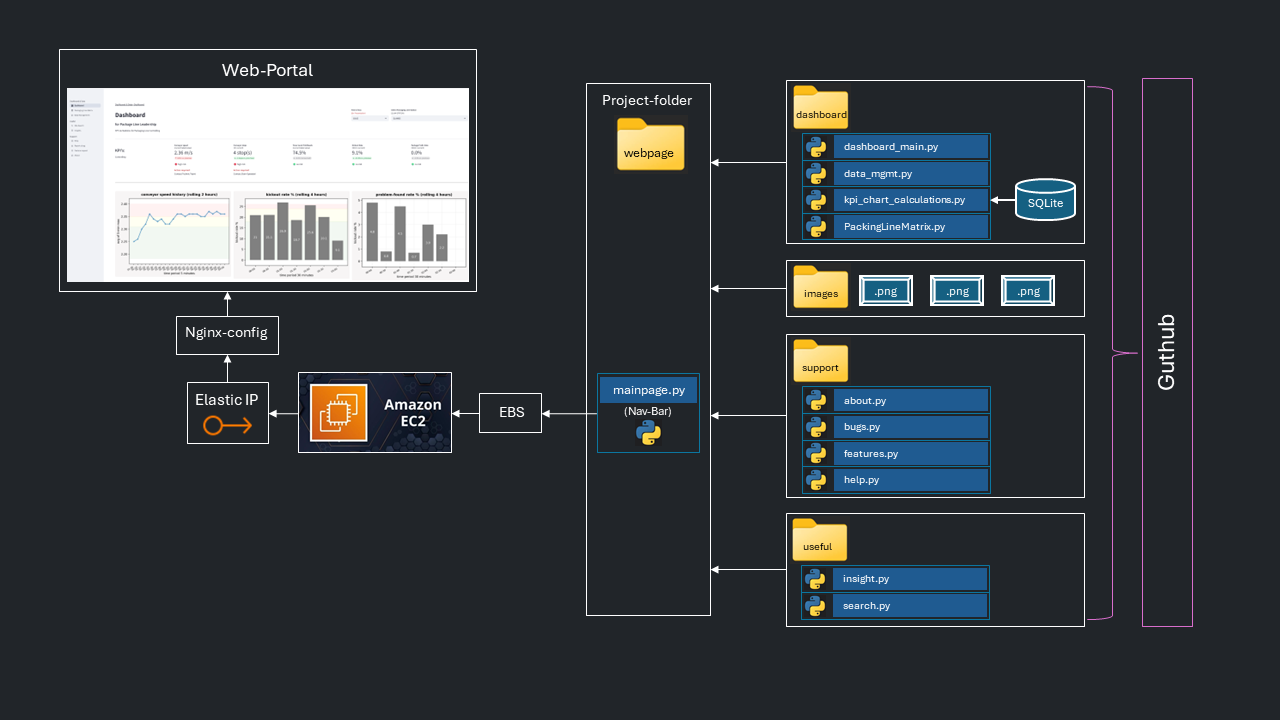
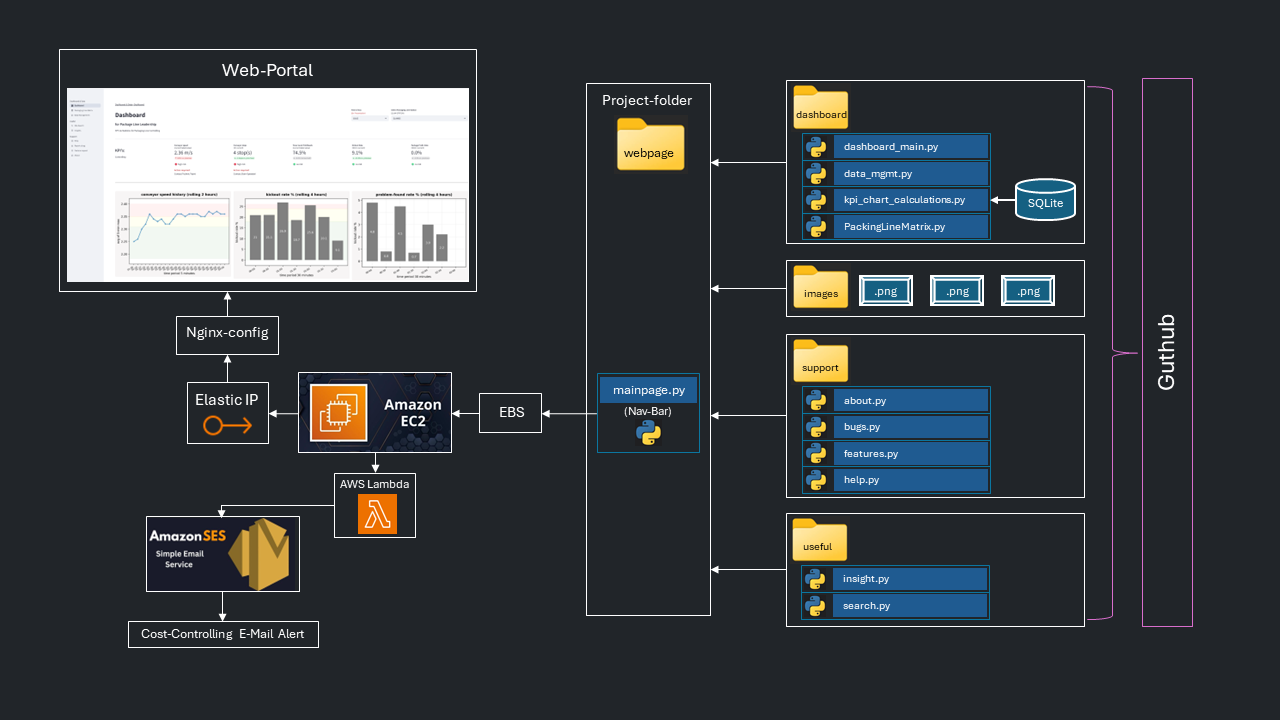
picture path update over pathlib

diff --git a/webpage/useful/insight.py b/webpage/useful/insight.py
@@ -19,8 +19,9 @@ st.markdown(
     unsafe_allow_html=True)
 
 with st.expander(":material/arrow_drop_down: :violet[**Conveyor & Machine**]"):
-    image_path = "./images/TheMachine.png"
-    image = Image.open(image_path)
+    BASE_DIR = Path(__file__).resolve().parent.parent
+    img_path = BASE_DIR / "images" / "TheMachine.png"
+    image = Image.open(img_path)
     st.image(image, caption="Teams Project", width=800)
 
     st.markdown(
@@ -35,8 +36,9 @@ with st.expander(":material/arrow_drop_down: :violet[**Conveyor & Machine**]"):
              \n\n**:green[Our Mission:]** :green[In search of ways to improve process transparency and optimize productivity inclusive support & ticket-system.]")
 
 with st.expander(":material/arrow_drop_down: :violet[**ETL**]"):
-    image_path = "./images/Datenfluss_3.png"
-    image = Image.open(image_path)
+    BASE_DIR = Path(__file__).resolve().parent.parent
+    img_path = BASE_DIR / "images" / "Datenfluss_3.png"
+    image = Image.open(img_path)
     st.image(image, caption="by Mohamad E.", width=800)
 
     st.markdown(
@@ -49,8 +51,9 @@ with st.expander(":material/arrow_drop_down: :violet[**ETL**]"):
              \n\n**The final dataset is stored in a SQLite database and serves as the foundation for further analysis and machine learning.**")
 
 with st.expander(":material/arrow_drop_down: :violet[**The EDA**]"):
-    image_path = "./images/PicturePlaceholder.png"
-    image = Image.open(image_path)
+    BASE_DIR = Path(__file__).resolve().parent.parent
+    img_path = BASE_DIR / "images" / "PicturePlaceholder.png"
+    image = Image.open(img_path)
     st.image(image, caption="by Mohamad E.", width=800)
 
     st.markdown(
@@ -66,8 +69,9 @@ with st.expander(":material/arrow_drop_down: :violet[**The EDA**]"):
              \n\n**These findings help to better understand system behavior and provide a basis for targeted optimization measures.**")
 
 with st.expander(":material/arrow_drop_down: :violet[**Machine Learning ML**]"):
-    image_path = "./images/PicturePlaceholder.png"
-    image = Image.open(image_path)
+    BASE_DIR = Path(__file__).resolve().parent.parent
+    img_path = BASE_DIR / "images" / "PicturePlaceholder.png"
+    image = Image.open(img_path)
     st.image(image, caption="by Michael S.", width=800)
 
     st.markdown(

diff --git a/webpage/support/about.py b/webpage/support/about.py
@@ -12,7 +12,7 @@ st.markdown(
     ######
     <span style='color:blue;'>
     <b>first warm words:</b><br>
-    At the heart of this three-person team project are training sessions in Scrum, Python, ETL, EDA, SQLite, ML, AWS EC2/S3, Elastic IP, Streamlit, GitHub, Excel ect.,<br> 
+    At the heart of this three-person team project are training sessions in Scrum, Python, ETL, EDA, SQLite, ML, AWS EC2/S3/SES/Lambda, Elastic IP, Streamlit, GitHub, Excel ect.,<br> 
     while ensuring the experience remains engaging and enjoyable throughout!<br>
     <br>Thanks a lot to <b><a href="https://data-science-institute.de/" target="_blank">DSI-Team</a></b> for their great six-month training program!<br>
     </span>
